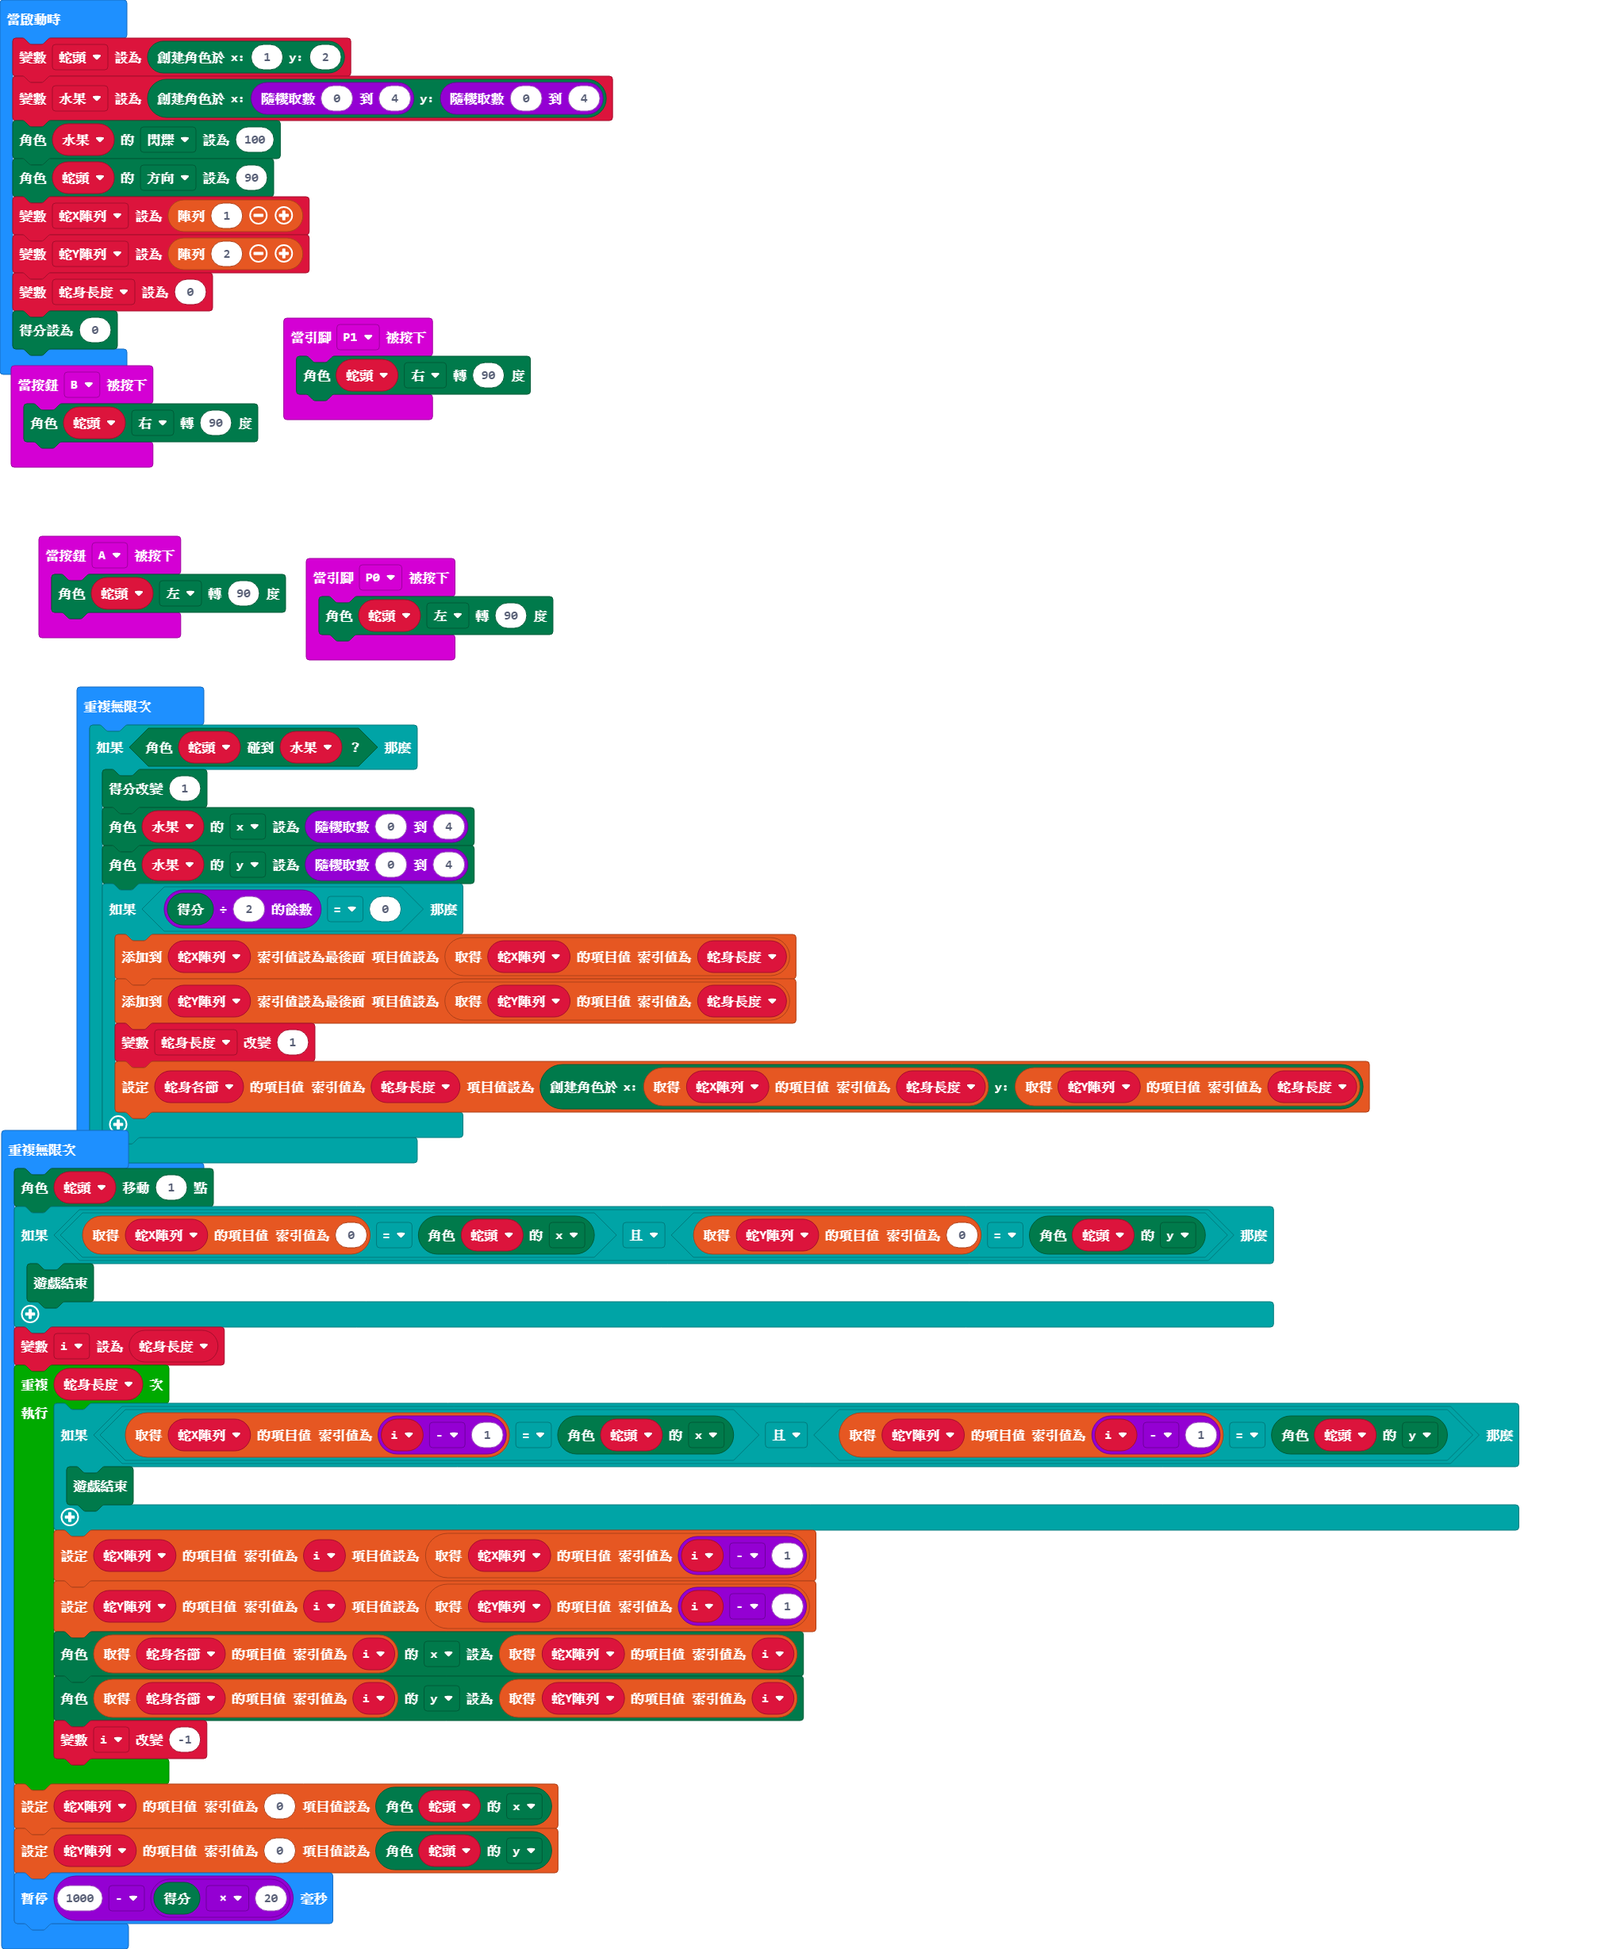
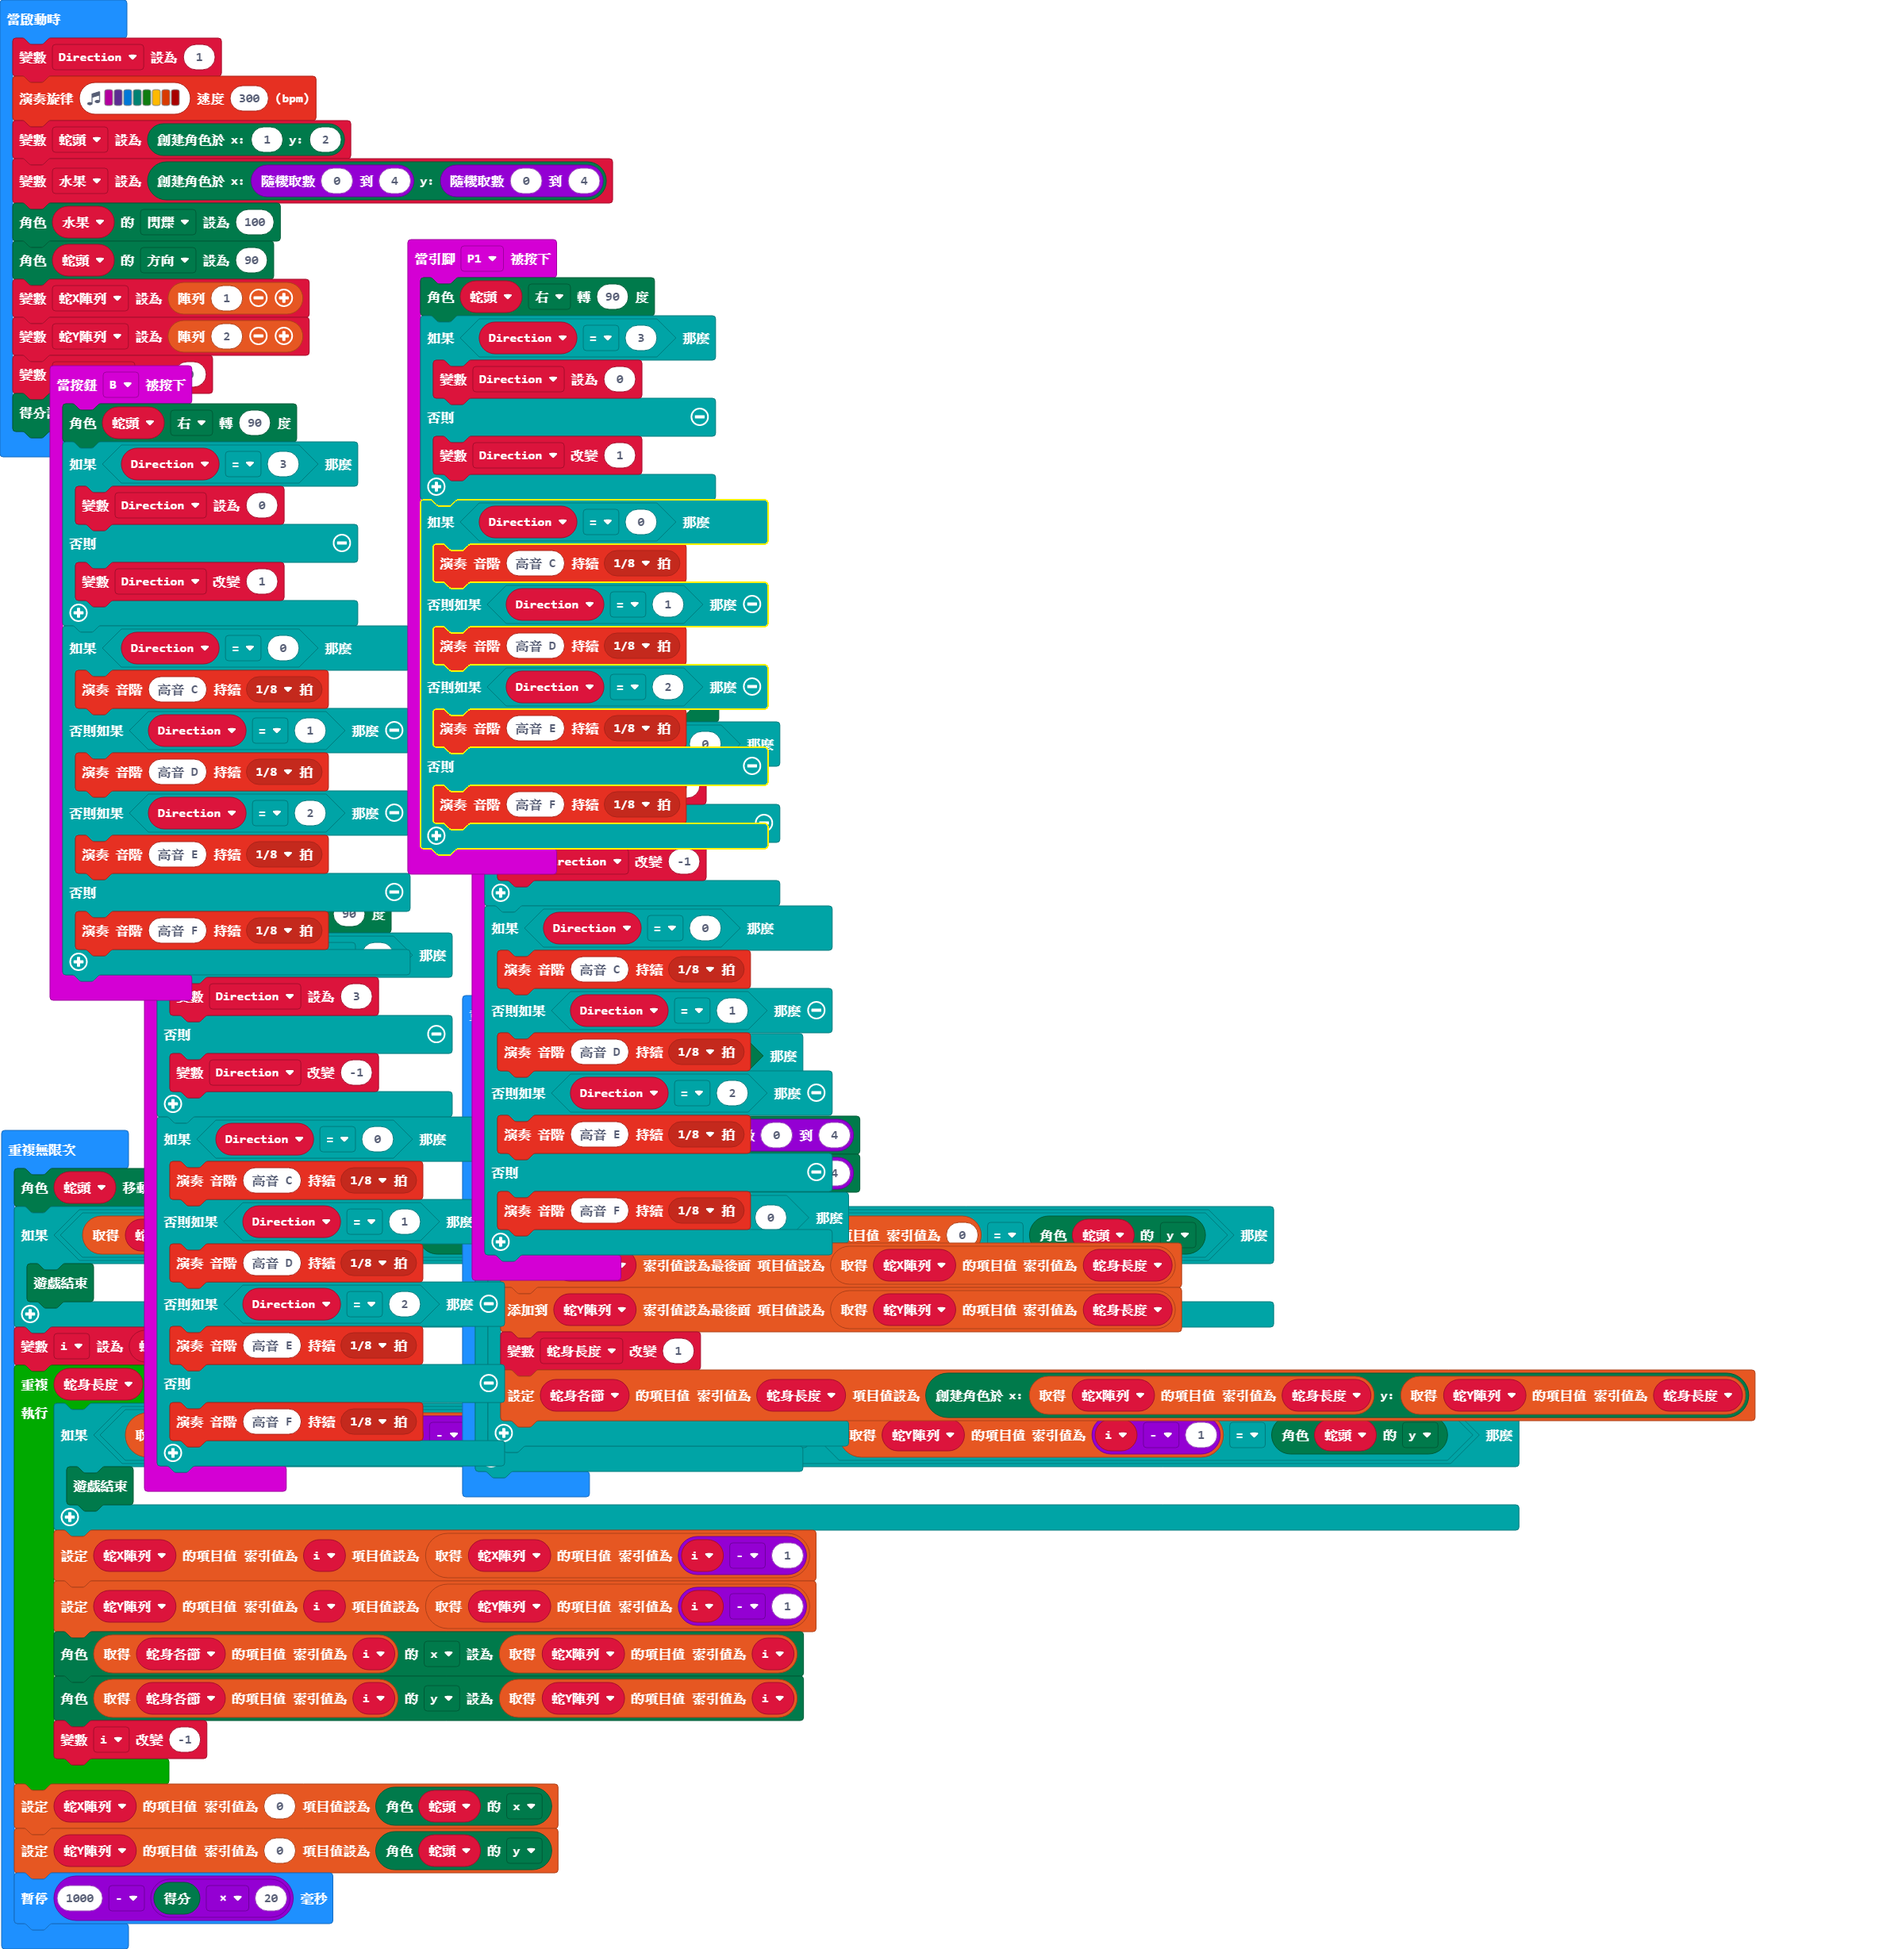
add sound fx

diff --git a/main.ts b/main.ts
@@ -1,18 +1,77 @@
 input.onPinPressed(TouchPin.P0, function () {
     蛇頭.turn(Direction.Left, 90)
+    if (Direction2 == 0) {
+        Direction2 = 3
+    } else {
+        Direction2 += -1
+    }
+    if (Direction2 == 0) {
+        music.playTone(523, music.beat(BeatFraction.Eighth))
+    } else if (Direction2 == 1) {
+        music.playTone(587, music.beat(BeatFraction.Eighth))
+    } else if (Direction2 == 2) {
+        music.playTone(659, music.beat(BeatFraction.Eighth))
+    } else {
+        music.playTone(698, music.beat(BeatFraction.Eighth))
+    }
 })
 input.onButtonPressed(Button.A, function () {
     蛇頭.turn(Direction.Left, 90)
+    if (Direction2 == 0) {
+        Direction2 = 3
+    } else {
+        Direction2 += -1
+    }
+    if (Direction2 == 0) {
+        music.playTone(523, music.beat(BeatFraction.Eighth))
+    } else if (Direction2 == 1) {
+        music.playTone(587, music.beat(BeatFraction.Eighth))
+    } else if (Direction2 == 2) {
+        music.playTone(659, music.beat(BeatFraction.Eighth))
+    } else {
+        music.playTone(698, music.beat(BeatFraction.Eighth))
+    }
 })
 input.onButtonPressed(Button.B, function () {
     蛇頭.turn(Direction.Right, 90)
+    if (Direction2 == 3) {
+        Direction2 = 0
+    } else {
+        Direction2 += 1
+    }
+    if (Direction2 == 0) {
+        music.playTone(523, music.beat(BeatFraction.Eighth))
+    } else if (Direction2 == 1) {
+        music.playTone(587, music.beat(BeatFraction.Eighth))
+    } else if (Direction2 == 2) {
+        music.playTone(659, music.beat(BeatFraction.Eighth))
+    } else {
+        music.playTone(698, music.beat(BeatFraction.Eighth))
+    }
 })
 input.onPinPressed(TouchPin.P1, function () {
     蛇頭.turn(Direction.Right, 90)
+    if (Direction2 == 3) {
+        Direction2 = 0
+    } else {
+        Direction2 += 1
+    }
+    if (Direction2 == 0) {
+        music.playTone(523, music.beat(BeatFraction.Eighth))
+    } else if (Direction2 == 1) {
+        music.playTone(587, music.beat(BeatFraction.Eighth))
+    } else if (Direction2 == 2) {
+        music.playTone(659, music.beat(BeatFraction.Eighth))
+    } else {
+        music.playTone(698, music.beat(BeatFraction.Eighth))
+    }
 })
 let i = 0
 let 蛇身各節: game.LedSprite[] = []
 let 蛇頭: game.LedSprite = null
+let Direction2 = 0
+Direction2 = 1
+music.playMelody("C D E F G A B C5 ", 300)
 蛇頭 = game.createSprite(1, 2)
 let 水果 = game.createSprite(randint(0, 4), randint(0, 4))
 水果.set(LedSpriteProperty.Blink, 100)
